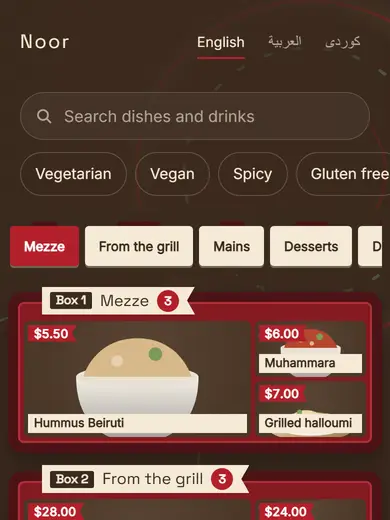
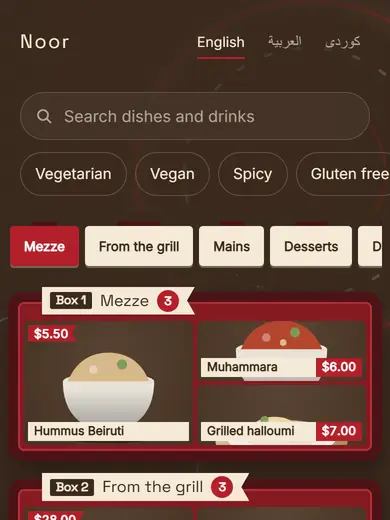
chore(templates): bento thumbnail redrawn; quick-add e2e waits for hydration
The bento gallery thumbnail is redrawn for its F5 layout. The shared
expectQuickAdd waits until React owns the add button before tapping it: a
tap that lands before hydration on a loaded machine added nothing, which
is why the departures Board "add updates the cart" test failed (cart bar
not found) under load; it passes alone and Board's add path is unchanged
from origin/main.

Changed region(s): [[0.0308, 0.6154, 0.9846, 1.0]]

diff --git a/tests/e2e/helpers/body-menu.ts b/tests/e2e/helpers/body-menu.ts
@@ -157,7 +157,11 @@ export async function expectOpensProduct(page: Page, scope: Locator, productSlug
 /** The dish's quick add in `scope` puts one in the cart without opening its sheet. */
 export async function expectQuickAdd(page: Page, scope: Locator, productSlug: string) {
   await expect(page.getByTestId('cart-bar')).toBeHidden();
-  await scope.getByRole('button', { name: `Add ${dishName(productSlug)} to your order` }).click();
+  const add = scope.getByRole('button', { name: `Add ${dishName(productSlug)} to your order` });
+  // A tap that lands before the page has hydrated (a loaded machine may still be doing it after the load) adds nothing:
+  // wait until React has the button.
+  await expect.poll(() => add.evaluate((node) => Object.keys(node).some((key) => key.startsWith('__reactProps'))), { timeout: 15_000 }).toBe(true);
+  await add.click();
   await expect(page.getByTestId('cart-bar')).toContainText('1');
   await expect(page.getByRole('dialog')).toBeHidden();
 }
